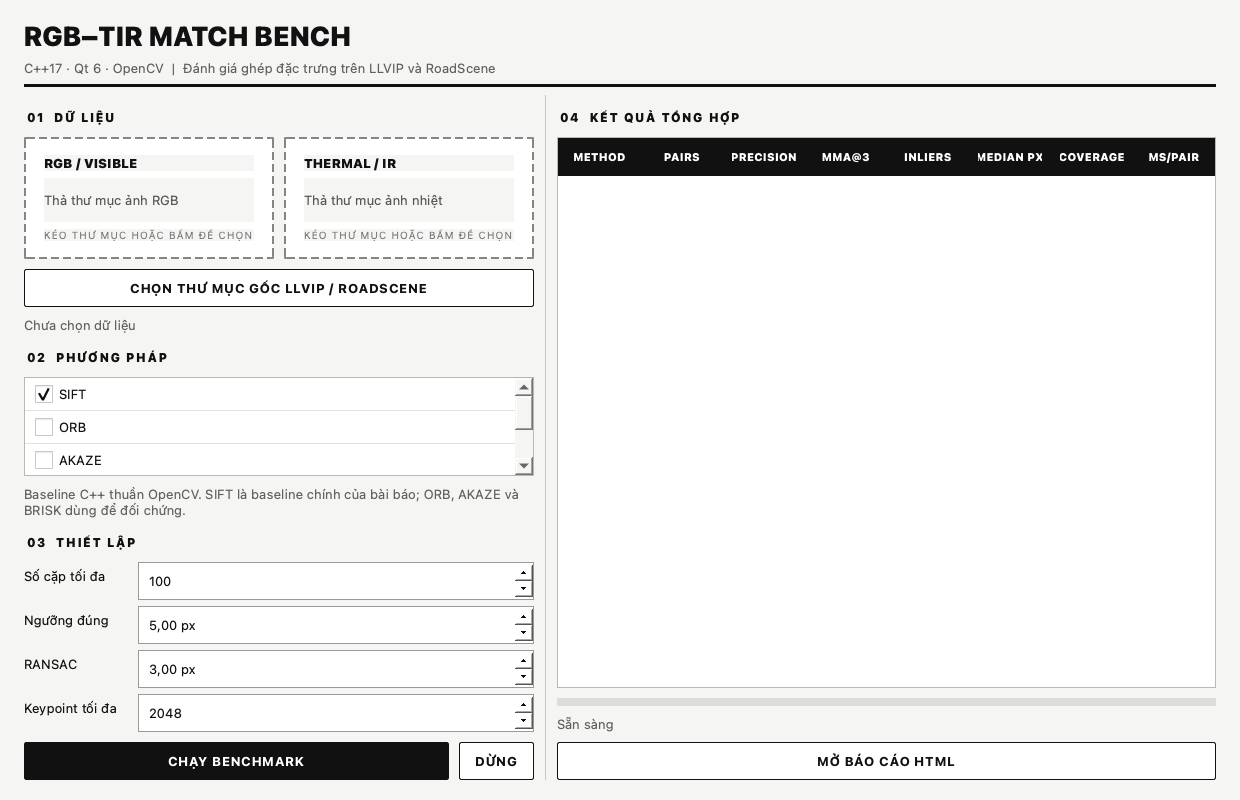
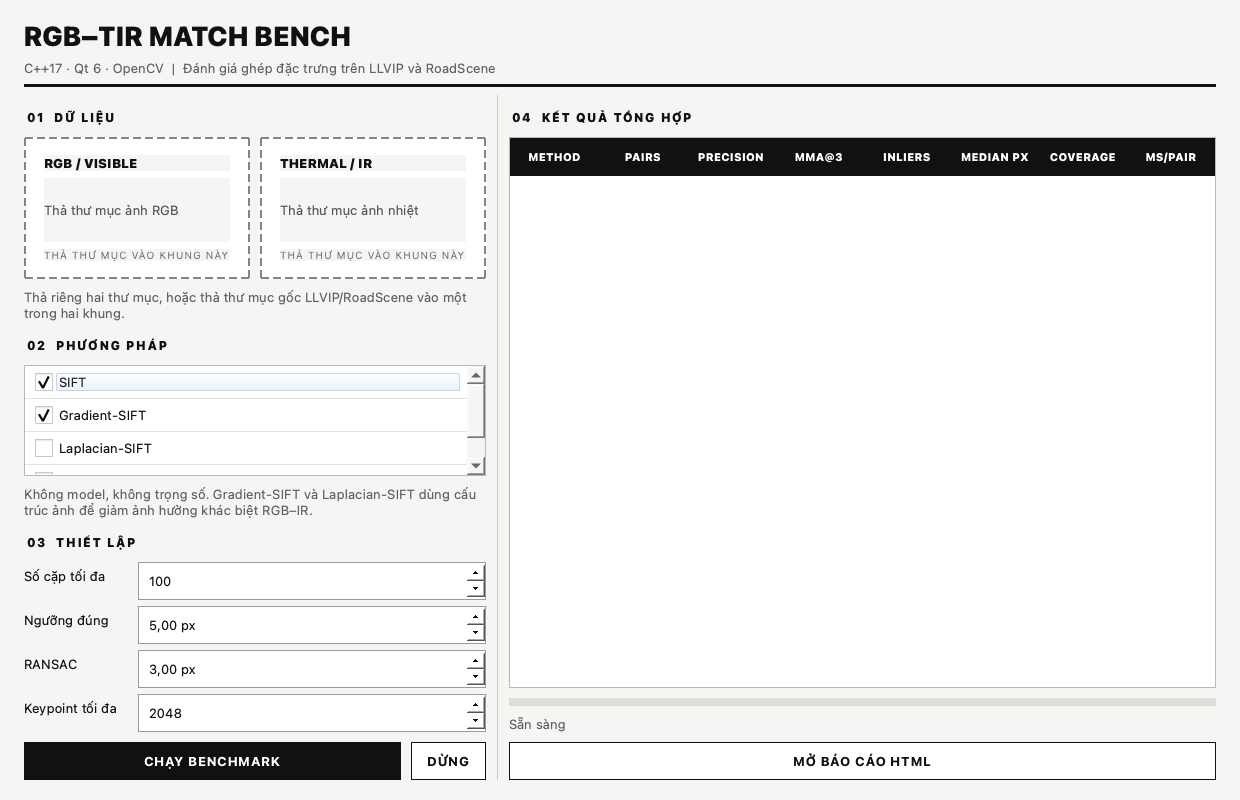
Make benchmark model-free with pure square drag and drop UI

diff --git a/src/ui/MainWindow.cpp b/src/ui/MainWindow.cpp
@@ -8,7 +8,6 @@
 #include <QDesktopServices>
 #include <QDir>
 #include <QDoubleSpinBox>
-#include <QFileDialog>
 #include <QFormLayout>
 #include <QGridLayout>
 #include <QGroupBox>
@@ -113,10 +112,8 @@ void MainWindow::buildUi()
     dropLayout->addWidget(thermalDrop_);
     leftLayout->addLayout(dropLayout);
 
-    auto *rootButton = new QPushButton(QStringLiteral("CHỌN THƯ MỤC GỐC LLVIP / ROADSCENE"), left);
-    rootButton->setObjectName(QStringLiteral("outlineButton"));
-    leftLayout->addWidget(rootButton);
-    datasetStatus_ = new QLabel(QStringLiteral("Chưa chọn dữ liệu"), left);
+    datasetStatus_ = new QLabel(
+        QStringLiteral("Thả riêng hai thư mục, hoặc thả thư mục gốc LLVIP/RoadScene vào một trong hai khung."), left);
     datasetStatus_->setObjectName(QStringLiteral("datasetStatus"));
     datasetStatus_->setWordWrap(true);
     leftLayout->addWidget(datasetStatus_);
@@ -129,12 +126,12 @@ void MainWindow::buildUi()
     for (int i = 0; i < methods.size(); ++i) {
         auto *item = new QListWidgetItem(methods.at(i), methodList_);
         item->setFlags(item->flags() | Qt::ItemIsUserCheckable);
-        item->setCheckState(i == 0 ? Qt::Checked : Qt::Unchecked);
+        item->setCheckState(i < 2 ? Qt::Checked : Qt::Unchecked);
     }
     leftLayout->addWidget(methodList_, 1);
 
     auto *matcherNote = new QLabel(
-        QStringLiteral("Baseline C++ thuần OpenCV. SIFT là baseline chính của bài báo; ORB, AKAZE và BRISK dùng để đối chứng."), left);
+        QStringLiteral("Không model, không trọng số. Gradient-SIFT và Laplacian-SIFT dùng cấu trúc ảnh để giảm ảnh hưởng khác biệt RGB–IR."), left);
     matcherNote->setObjectName(QStringLiteral("note"));
     matcherNote->setWordWrap(true);
     leftLayout->addWidget(matcherNote);
@@ -205,11 +202,8 @@ void MainWindow::buildUi()
     rightLayout->addWidget(statusLabel_);
     rightLayout->addWidget(openReportButton_);
 
-    connect(visibleDrop_, &DropZone::browseRequested, this, &MainWindow::browseVisible);
-    connect(thermalDrop_, &DropZone::browseRequested, this, &MainWindow::browseThermal);
     connect(visibleDrop_, &DropZone::pathChanged, this, &MainWindow::validateDataset);
     connect(thermalDrop_, &DropZone::pathChanged, this, &MainWindow::validateDataset);
-    connect(rootButton, &QPushButton::clicked, this, &MainWindow::browseRoot);
     connect(runButton_, &QPushButton::clicked, this, &MainWindow::startBenchmark);
     connect(stopButton_, &QPushButton::clicked, this, &MainWindow::stopBenchmark);
     connect(openReportButton_, &QPushButton::clicked, this, &MainWindow::openReport);
@@ -223,12 +217,12 @@ void MainWindow::applyMonochromeStyle()
         #subtitle, #note, #datasetStatus, #statusLabel { color:#606060; }
         #rule { color:#111111; background:#111111; max-height:1px; }
         #sectionLabel { font-size:12px; font-weight:800; letter-spacing:1.5px; padding:7px 0 2px 0; }
-        #dropZone { background:#ffffff; border:2px dashed #858585; border-radius:2px; min-height:118px; }
+        #dropZone { background:#ffffff; border:2px dashed #858585; border-radius:0; min-height:138px; }
         #dropZone:hover, #dropZone[active="true"] { border:2px solid #111111; background:#eeeeeb; }
         #dropTitle { font-weight:800; font-size:13px; }
         #dropValue { color:#555555; }
         #dropCaption { color:#777777; font-size:10px; letter-spacing:0.8px; }
-        QPushButton { min-height:36px; padding:0 15px; border-radius:2px; font-weight:700; letter-spacing:0.6px; }
+        QPushButton { min-height:36px; padding:0 15px; border-radius:0; font-weight:700; letter-spacing:0.6px; }
         #primaryButton { background:#111111; color:#ffffff; border:1px solid #111111; }
         #primaryButton:hover { background:#333333; }
         #secondaryButton, #outlineButton { background:#ffffff; color:#111111; border:1px solid #111111; }
@@ -244,35 +238,22 @@ void MainWindow::applyMonochromeStyle()
     )"));
 }
 
-void MainWindow::browseVisible()
-{
-    const QString path = QFileDialog::getExistingDirectory(this, QStringLiteral("Chọn thư mục RGB"));
-    if (!path.isEmpty()) visibleDrop_->setPath(path);
-}
-
-void MainWindow::browseThermal()
-{
-    const QString path = QFileDialog::getExistingDirectory(this, QStringLiteral("Chọn thư mục ảnh nhiệt"));
-    if (!path.isEmpty()) thermalDrop_->setPath(path);
-}
-
-void MainWindow::browseRoot()
-{
-    const QString root = QFileDialog::getExistingDirectory(this, QStringLiteral("Chọn thư mục gốc dataset"));
-    if (root.isEmpty()) return;
-    QString visible;
-    QString thermal;
-    if (!DatasetPairer::detectDatasetRoot(root, &visible, &thermal, &datasetName_)) {
-        QMessageBox::warning(this, QStringLiteral("Không nhận dạng được"),
-            QStringLiteral("Không thấy cấu trúc LLVIP hoặc RoadScene. Hãy thả riêng hai thư mục RGB và IR."));
-        return;
-    }
-    visibleDrop_->setPath(visible);
-    thermalDrop_->setPath(thermal);
-}
-
 void MainWindow::validateDataset()
 {
+    if (auto *zone = qobject_cast<DropZone *>(sender())) {
+        QString detectedVisible;
+        QString detectedThermal;
+        QString detectedName;
+        if (DatasetPairer::detectDatasetRoot(
+                zone->path(), &detectedVisible, &detectedThermal, &detectedName)) {
+            datasetName_ = detectedName;
+            if (visibleDrop_->path() != detectedVisible)
+                visibleDrop_->setPath(detectedVisible);
+            if (thermalDrop_->path() != detectedThermal)
+                thermalDrop_->setPath(detectedThermal);
+            return;
+        }
+    }
     if (visibleDrop_->path().isEmpty() || thermalDrop_->path().isEmpty()) return;
     try {
         QStringList warnings;

diff --git a/src/core/FeatureMatcher.cpp b/src/core/FeatureMatcher.cpp
@@ -1,10 +1,6 @@
 #include "core/FeatureMatcher.h"
 
 #include <opencv2/features2d.hpp>
-#include <opencv2/core/version.hpp>
-#if CV_VERSION_MAJOR >= 5
-#include <opencv2/xfeatures2d.hpp>
-#endif
 #include <opencv2/imgproc.hpp>
 #include <stdexcept>
 
@@ -16,28 +12,14 @@ public:
     OpenCvFeatureMatcher(const QString &method, int maxKeypoints)
         : method_(method)
     {
-        if (method == QStringLiteral("SIFT")) {
+        if (method == QStringLiteral("SIFT")
+            || method == QStringLiteral("Gradient-SIFT")
+            || method == QStringLiteral("Laplacian-SIFT")) {
             detector_ = cv::SIFT::create(maxKeypoints);
             norm_ = cv::NORM_L2;
             ratio_ = 0.80f;
         } else if (method == QStringLiteral("ORB")) {
             detector_ = cv::ORB::create(maxKeypoints);
-            norm_ = cv::NORM_HAMMING;
-            ratio_ = 0.82f;
-        } else if (method == QStringLiteral("AKAZE")) {
-#if CV_VERSION_MAJOR >= 5
-            detector_ = cv::xfeatures2d::AKAZE::create();
-#else
-            detector_ = cv::AKAZE::create();
-#endif
-            norm_ = cv::NORM_HAMMING;
-            ratio_ = 0.82f;
-        } else if (method == QStringLiteral("BRISK")) {
-#if CV_VERSION_MAJOR >= 5
-            detector_ = cv::xfeatures2d::BRISK::create();
-#else
-            detector_ = cv::BRISK::create();
-#endif
             norm_ = cv::NORM_HAMMING;
             ratio_ = 0.82f;
         } else {
@@ -51,8 +33,8 @@ public:
     {
         cv::Mat gray0;
         cv::Mat gray1;
-        cv::cvtColor(visible, gray0, cv::COLOR_BGR2GRAY);
-        cv::cvtColor(thermal, gray1, cv::COLOR_BGR2GRAY);
+        gray0 = representation(visible);
+        gray1 = representation(thermal);
 
         std::vector<cv::KeyPoint> keypoints0;
         std::vector<cv::KeyPoint> keypoints1;
@@ -79,6 +61,30 @@ public:
     }
 
 private:
+    cv::Mat representation(const cv::Mat &image) const
+    {
+        cv::Mat gray;
+        cv::cvtColor(image, gray, cv::COLOR_BGR2GRAY);
+        if (method_ == QStringLiteral("Gradient-SIFT")) {
+            cv::Mat dx;
+            cv::Mat dy;
+            cv::Mat magnitude;
+            cv::Sobel(gray, dx, CV_32F, 1, 0, 3);
+            cv::Sobel(gray, dy, CV_32F, 0, 1, 3);
+            cv::magnitude(dx, dy, magnitude);
+            cv::normalize(magnitude, magnitude, 0, 255, cv::NORM_MINMAX);
+            magnitude.convertTo(gray, CV_8U);
+            cv::GaussianBlur(gray, gray, cv::Size(3, 3), 0.0);
+        } else if (method_ == QStringLiteral("Laplacian-SIFT")) {
+            cv::Mat smooth;
+            cv::Mat laplacian;
+            cv::GaussianBlur(gray, smooth, cv::Size(5, 5), 1.0);
+            cv::Laplacian(smooth, laplacian, CV_32F, 3);
+            cv::convertScaleAbs(laplacian, gray);
+        }
+        return gray;
+    }
+
     QString method_;
     cv::Ptr<cv::Feature2D> detector_;
     int norm_ = cv::NORM_L2;
@@ -89,8 +95,8 @@ private:
 
 QStringList FeatureMatcherFactory::availableMethods()
 {
-    return {QStringLiteral("SIFT"), QStringLiteral("ORB"),
-            QStringLiteral("AKAZE"), QStringLiteral("BRISK")};
+    return {QStringLiteral("SIFT"), QStringLiteral("Gradient-SIFT"),
+            QStringLiteral("Laplacian-SIFT"), QStringLiteral("ORB")};
 }
 
 std::unique_ptr<IFeatureMatcher> FeatureMatcherFactory::create(

diff --git a/src/ui/DropZone.cpp b/src/ui/DropZone.cpp
@@ -6,7 +6,6 @@
 #include <QFileInfo>
 #include <QLabel>
 #include <QMimeData>
-#include <QMouseEvent>
 #include <QStyle>
 #include <QUrl>
 #include <QVBoxLayout>
@@ -17,7 +16,6 @@ DropZone::DropZone(const QString &title, const QString &hint, QWidget *parent)
     : QFrame(parent)
 {
     setAcceptDrops(true);
-    setCursor(Qt::PointingHandCursor);
     setObjectName(QStringLiteral("dropZone"));
     setProperty("active", false);
 
@@ -29,7 +27,7 @@ DropZone::DropZone(const QString &title, const QString &hint, QWidget *parent)
     valueLabel_ = new QLabel(hint, this);
     valueLabel_->setObjectName(QStringLiteral("dropValue"));
     valueLabel_->setWordWrap(true);
-    auto *caption = new QLabel(QStringLiteral("KÉO THƯ MỤC HOẶC BẤM ĐỂ CHỌN"), this);
+    auto *caption = new QLabel(QStringLiteral("THẢ THƯ MỤC VÀO KHUNG NÀY"), this);
     caption->setObjectName(QStringLiteral("dropCaption"));
     layout->addWidget(titleLabel);
     layout->addWidget(valueLabel_, 1);
@@ -74,13 +72,6 @@ void DropZone::dropEvent(QDropEvent *event)
         setPath(urls.first().toLocalFile());
         event->acceptProposedAction();
     }
-}
-
-void DropZone::mousePressEvent(QMouseEvent *event)
-{
-    if (event->button() == Qt::LeftButton)
-        emit browseRequested();
-    QFrame::mousePressEvent(event);
 }
 
 } // namespace rgbtir

diff --git a/tests/TestCore.cpp b/tests/TestCore.cpp
@@ -1,5 +1,6 @@
 #include "core/DatasetPairer.h"
 #include "core/BenchmarkEngine.h"
+#include "core/FeatureMatcher.h"
 #include "core/MetricCalculator.h"
 
 #include <QDir>
@@ -114,10 +115,10 @@ void TestCore::runsSiftAndWritesReports()
     config.visibleDir = QFileInfo(visiblePath).path();
     config.thermalDir = QFileInfo(thermalPath).path();
     config.outputDir = temporary.filePath(QStringLiteral("runs"));
-    config.methods = {QStringLiteral("SIFT")};
+    config.methods = rgbtir::FeatureMatcherFactory::availableMethods();
     config.maxPairs = 1;
     const rgbtir::BenchmarkResult result = rgbtir::BenchmarkEngine::run(config);
-    QCOMPARE(result.summary.size(), 1);
+    QCOMPARE(result.summary.size(), 4);
     QVERIFY(QFileInfo::exists(result.runDirectory + QStringLiteral("/summary.csv")));
     QVERIFY(QFileInfo::exists(result.runDirectory + QStringLiteral("/report.html")));
 }

diff --git a/src/ui/DropZone.h b/src/ui/DropZone.h
@@ -18,13 +18,11 @@ public:
 
 signals:
     void pathChanged(const QString &path);
-    void browseRequested();
 
 protected:
     void dragEnterEvent(QDragEnterEvent *event) override;
     void dragLeaveEvent(QDragLeaveEvent *event) override;
     void dropEvent(QDropEvent *event) override;
-    void mousePressEvent(QMouseEvent *event) override;
 
 private:
     void setActive(bool active);

diff --git a/src/ui/MainWindow.h b/src/ui/MainWindow.h
@@ -26,9 +26,6 @@ public:
     ~MainWindow() override;
 
 private slots:
-    void browseVisible();
-    void browseThermal();
-    void browseRoot();
     void validateDataset();
     void startBenchmark();
     void stopBenchmark();

diff --git a/README.md b/README.md
@@ -9,15 +9,15 @@
 ## Điểm chính
 
 - Giao diện Qt Widgets viết hoàn toàn bằng C++.
-- Hai vùng kéo‑thả lớn cho thư mục RGB và IR; cũng có thể bấm trực tiếp để chọn.
+- Hai vùng kéo‑thả vuông cho thư mục RGB và IR; không có hộp chọn tệp chen vào quy trình.
 - Tự nhận dạng cấu trúc LLVIP và RoadScene.
 - Toàn bộ nút bấm và giao diện dùng bảng màu đơn sắc trắng–đen–xám.
 - Benchmark chạy trong `QThread`, không làm treo giao diện; hỗ trợ dừng sau cặp hiện tại.
-- Matcher C++ tích hợp: SIFT, ORB, AKAZE và BRISK.
+- Matcher tích hợp sẵn trong binary: SIFT, Gradient-SIFT, Laplacian-SIFT và ORB.
 - Xuất `per_pair.csv`, `summary.csv`, `results.json` và `report.html`.
 - Unit test bằng Qt Test và CI GitHub Actions.
 
-SIFT là baseline thủ công chính được bài báo dùng để chỉ ra khó khăn của ghép RGB–TIR. ORB, AKAZE và BRISK được thêm làm nhóm đối chứng C++ nhẹ. Kiến trúc `IFeatureMatcher` cho phép tích hợp LightGlue/ONNX Runtime C++ sau này mà không sửa GUI, metric hoặc report.
+Không có model, checkpoint, ONNX hay trọng số phải nạp thêm. SIFT là baseline thủ công chính được bài báo dùng để chỉ ra khó khăn của ghép RGB–TIR. Gradient-SIFT và Laplacian-SIFT chuyển hai modality sang biểu diễn cấu trúc trước khi trích đặc trưng, nhờ đó tạo đối chứng không cần học máy; ORB là baseline nhị phân nhẹ.
 
 ## Phạm vi khoa học
 
@@ -124,7 +124,7 @@ RoadScene/
 
 ## Sử dụng
 
-1. Kéo thư mục `visible` vào ô bên trái và `infrared` vào ô bên phải; hoặc bấm **CHỌN THƯ MỤC GỐC**.
+1. Kéo thư mục `visible` vào ô bên trái và `infrared` vào ô bên phải. Cũng có thể kéo cả thư mục gốc LLVIP/RoadScene vào một trong hai ô để ứng dụng tự nhận dạng.
 2. Chọn một hoặc nhiều matcher.
 3. Đặt số cặp tối đa, ngưỡng đúng, ngưỡng RANSAC và số keypoint.
 4. Bấm **CHẠY BENCHMARK**.
@@ -168,7 +168,7 @@ src/
 3. Đăng ký tên và factory trong `FeatureMatcherFactory`.
 4. GUI, RANSAC, metric và report sẽ dùng matcher mới tự động.
 
-Để triển khai SuperPoint + LightGlue bằng C++, có thể kết nối ONNX Runtime với model xuất từ [LightGlue-ONNX](https://github.com/ct-hub/LightGlue-ONNX). Cần kiểm tra giấy phép riêng của pretrained weights, đặc biệt SuperPoint, trước khi phân phối.
+Các phương pháp hiện tại đều chạy ngay sau khi build, không tải model từ Internet và không yêu cầu đường dẫn trọng số.
 
 ## Kiểm thử
 
